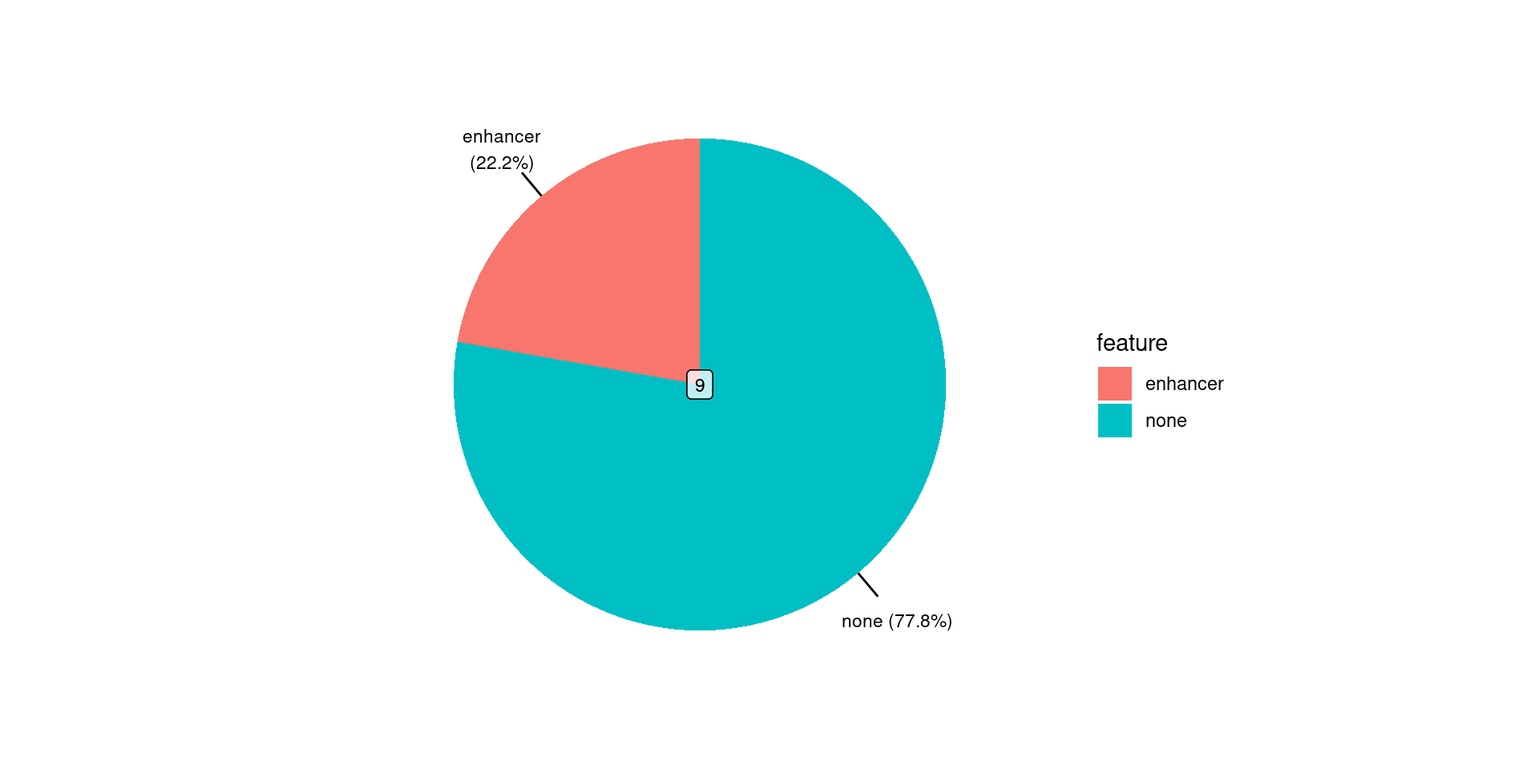
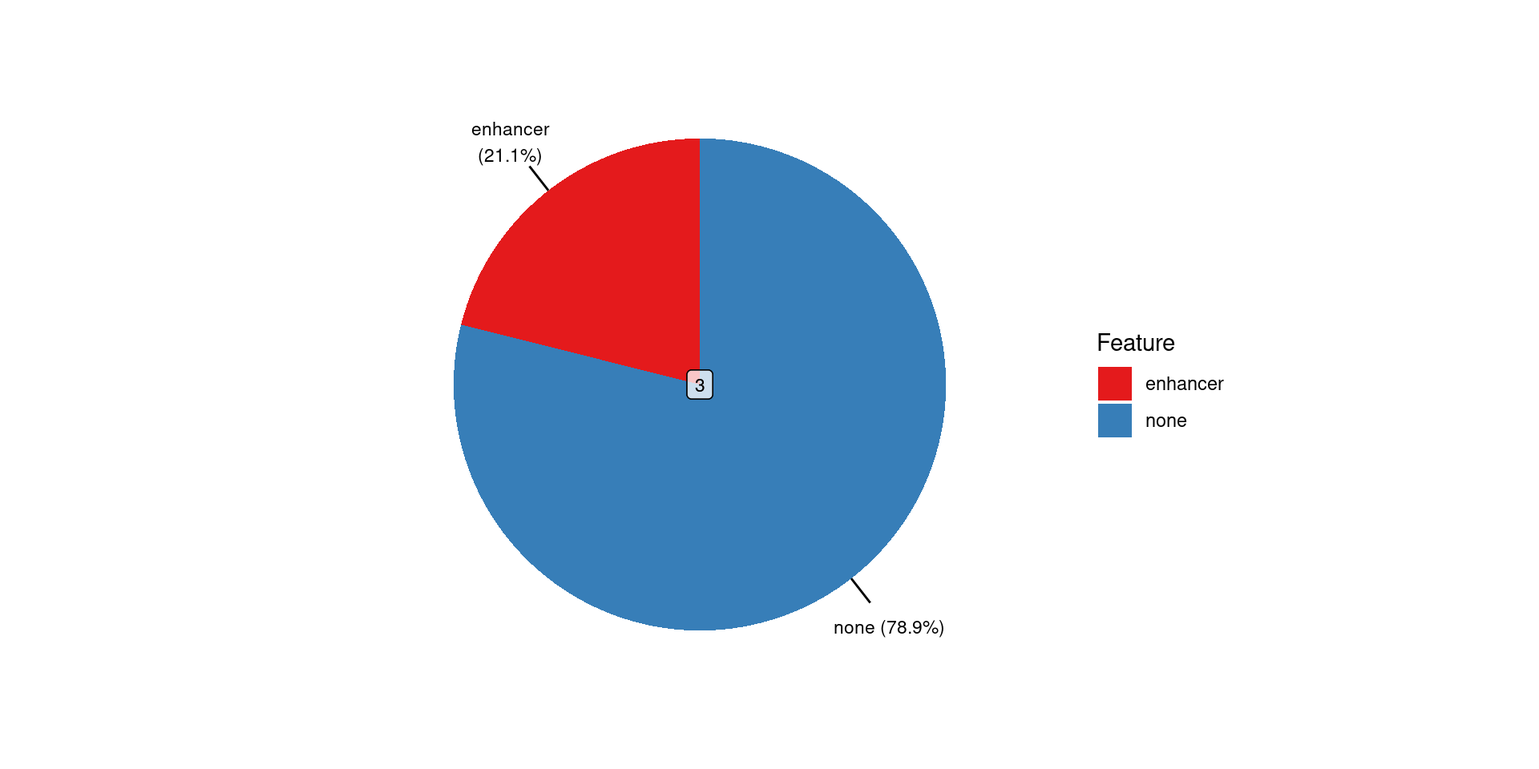
Minor edits

diff --git a/20221201_BiocAsia/20221201_extraChIPs.html b/20221201_BiocAsia/20221201_extraChIPs.html
@@ -565,29 +565,11 @@
 </div>
 </div>
 </div>
-</section>
-<section id="working-with-ranges-tibble-coercion-3" class="slide level2">
-<h2>Working With Ranges: <code>tibble</code> Coercion</h2>
-<p>Coercion back to a <code>GRanges</code> uses <code>colToRanges()</code></p>
-<div class="cell columns column-output-location">
-<div class="column">
-<div class="sourceCode cell-code" id="cb6"><pre class="sourceCode numberSource r number-lines code-with-copy"><code class="sourceCode r"><span id="cb6-1"><a href="#cb6-1"></a>tbl</span></code><button title="Copy to Clipboard" class="code-copy-button"><i class="bi"></i></button></pre></div>
-</div><div class="column">
-<div class="cell-output cell-output-stdout">
-<pre><code># A tibble: 4 × 3
-  range                      gene_name transcript_name
-  &lt;chr&gt;                      &lt;chr&gt;     &lt;chr&gt;          
-1 chr2:204732494-204738688:+ CTLA4     CTLA4-205      
-2 chr2:204732666-204737498:+ CTLA4     CTLA4-201      
-3 chr2:204732666-204737535:+ CTLA4     CTLA4-204      
-4 chr2:204732666-204737535:+ CTLA4     CTLA4-203      </code></pre>
-</div>
-</div>
-</div>
-<p><br></p>
+<div class="fragment" data-fragment-index="1">
+<p>Coerce back to a <code>GRanges</code> uses <code>colToRanges()</code></p>
 <div class="cell">
-<div class="sourceCode cell-code" id="cb8"><pre class="sourceCode numberSource r number-lines code-with-copy"><code class="sourceCode r"><span id="cb8-1"><a href="#cb8-1"></a>sq <span class="ot">&lt;-</span> <span class="fu">seqinfo</span>(gr)</span>
-<span id="cb8-2"><a href="#cb8-2"></a><span class="fu">colToRanges</span>(tbl, <span class="at">var =</span> <span class="st">"range"</span>, <span class="at">seqinfo =</span> sq)</span></code><button title="Copy to Clipboard" class="code-copy-button"><i class="bi"></i></button></pre></div>
+<div class="sourceCode cell-code" id="cb6"><pre class="sourceCode numberSource r number-lines code-with-copy"><code class="sourceCode r"><span id="cb6-1"><a href="#cb6-1"></a>sq <span class="ot">&lt;-</span> <span class="fu">seqinfo</span>(gr)</span>
+<span id="cb6-2"><a href="#cb6-2"></a><span class="fu">colToRanges</span>(tbl, <span class="at">var =</span> <span class="st">"range"</span>, <span class="at">seqinfo =</span> sq)</span></code><button title="Copy to Clipboard" class="code-copy-button"><i class="bi"></i></button></pre></div>
 <div class="cell-output cell-output-stdout">
 <pre><code>GRanges object with 4 ranges and 2 metadata columns:
       seqnames              ranges strand |   gene_name transcript_name
@@ -600,11 +582,12 @@
   seqinfo: 24 sequences from GRCh37 genome</code></pre>
 </div>
 </div>
+</div>
 </section>
 <section id="operations-retaining-mcols-reducemc" class="slide level2">
 <h2>Operations Retaining <code>mcols</code>: <code>reduceMC()</code></h2>
 <div class="cell">
-<div class="sourceCode cell-code" id="cb10"><pre class="sourceCode numberSource r number-lines code-with-copy"><code class="sourceCode r"><span id="cb10-1"><a href="#cb10-1"></a>gr</span></code><button title="Copy to Clipboard" class="code-copy-button"><i class="bi"></i></button></pre></div>
+<div class="sourceCode cell-code" id="cb8"><pre class="sourceCode numberSource r number-lines code-with-copy"><code class="sourceCode r"><span id="cb8-1"><a href="#cb8-1"></a>gr</span></code><button title="Copy to Clipboard" class="code-copy-button"><i class="bi"></i></button></pre></div>
 <div class="cell-output cell-output-stdout">
 <pre><code>GRanges object with 4 ranges and 2 metadata columns:
       seqnames              ranges strand |   gene_name transcript_name
@@ -619,7 +602,7 @@
 </div>
 <p>Common functions like <code>reduce</code> lose <code>mcols</code> information</p>
 <div class="cell">
-<div class="sourceCode cell-code" id="cb12"><pre class="sourceCode numberSource r number-lines code-with-copy"><code class="sourceCode r"><span id="cb12-1"><a href="#cb12-1"></a><span class="fu">reduce</span>(gr)</span></code><button title="Copy to Clipboard" class="code-copy-button"><i class="bi"></i></button></pre></div>
+<div class="sourceCode cell-code" id="cb10"><pre class="sourceCode numberSource r number-lines code-with-copy"><code class="sourceCode r"><span id="cb10-1"><a href="#cb10-1"></a><span class="fu">reduce</span>(gr)</span></code><button title="Copy to Clipboard" class="code-copy-button"><i class="bi"></i></button></pre></div>
 <div class="cell-output cell-output-stdout">
 <pre><code>GRanges object with 1 range and 0 metadata columns:
       seqnames              ranges strand
@@ -633,7 +616,7 @@
 <section id="operations-retaining-mcols-reducemc-1" class="slide level2">
 <h2>Operations Retaining <code>mcols</code>: <code>reduceMC()</code></h2>
 <div class="cell">
-<div class="sourceCode cell-code" id="cb14"><pre class="sourceCode numberSource r number-lines code-with-copy"><code class="sourceCode r"><span id="cb14-1"><a href="#cb14-1"></a>gr</span></code><button title="Copy to Clipboard" class="code-copy-button"><i class="bi"></i></button></pre></div>
+<div class="sourceCode cell-code" id="cb12"><pre class="sourceCode numberSource r number-lines code-with-copy"><code class="sourceCode r"><span id="cb12-1"><a href="#cb12-1"></a>gr</span></code><button title="Copy to Clipboard" class="code-copy-button"><i class="bi"></i></button></pre></div>
 <div class="cell-output cell-output-stdout">
 <pre><code>GRanges object with 4 ranges and 2 metadata columns:
       seqnames              ranges strand |   gene_name transcript_name
@@ -648,7 +631,7 @@
 </div>
 <p><code>reduceMC()</code> collapses the <code>mcols</code> information</p>
 <div class="cell">
-<div class="sourceCode cell-code" id="cb16"><pre class="sourceCode numberSource r number-lines code-with-copy"><code class="sourceCode r"><span id="cb16-1"><a href="#cb16-1"></a><span class="fu">reduceMC</span>(gr)</span></code><button title="Copy to Clipboard" class="code-copy-button"><i class="bi"></i></button></pre></div>
+<div class="sourceCode cell-code" id="cb14"><pre class="sourceCode numberSource r number-lines code-with-copy"><code class="sourceCode r"><span id="cb14-1"><a href="#cb14-1"></a><span class="fu">reduceMC</span>(gr)</span></code><button title="Copy to Clipboard" class="code-copy-button"><i class="bi"></i></button></pre></div>
 <div class="cell-output cell-output-stdout">
 <pre><code>GRanges object with 1 range and 2 metadata columns:
       seqnames              ranges strand |   gene_name
@@ -666,10 +649,10 @@
 <h2>Operations Retaining <code>mcols</code>: <code>reduceMC()</code></h2>
 <p>More realistically we might want to find unique TSS within a gene</p>
 <div class="cell">
-<div class="sourceCode cell-code" id="cb18"><pre class="sourceCode numberSource r number-lines code-with-copy"><code class="sourceCode r"><span id="cb18-1"><a href="#cb18-1"></a><span class="fu">library</span>(magrittr)</span>
-<span id="cb18-2"><a href="#cb18-2"></a>gr <span class="sc">%&gt;%</span> </span>
-<span id="cb18-3"><a href="#cb18-3"></a>  <span class="fu">resize</span>(<span class="at">width =</span> <span class="dv">1</span>, <span class="at">fix =</span> <span class="st">'start'</span>) <span class="sc">%&gt;%</span> </span>
-<span id="cb18-4"><a href="#cb18-4"></a>  <span class="fu">reduceMC</span>()</span></code><button title="Copy to Clipboard" class="code-copy-button"><i class="bi"></i></button></pre></div>
+<div class="sourceCode cell-code" id="cb16"><pre class="sourceCode numberSource r number-lines code-with-copy"><code class="sourceCode r"><span id="cb16-1"><a href="#cb16-1"></a><span class="fu">library</span>(magrittr)</span>
+<span id="cb16-2"><a href="#cb16-2"></a>gr <span class="sc">%&gt;%</span> </span>
+<span id="cb16-3"><a href="#cb16-3"></a>  <span class="fu">resize</span>(<span class="at">width =</span> <span class="dv">1</span>, <span class="at">fix =</span> <span class="st">'start'</span>) <span class="sc">%&gt;%</span> </span>
+<span id="cb16-4"><a href="#cb16-4"></a>  <span class="fu">reduceMC</span>()</span></code><button title="Copy to Clipboard" class="code-copy-button"><i class="bi"></i></button></pre></div>
 <div class="cell-output cell-output-stdout">
 <pre><code>GRanges object with 2 ranges and 2 metadata columns:
       seqnames    ranges strand |   gene_name               transcript_name
@@ -696,7 +679,7 @@
 <section id="tidyverse-inspired-functions-chopmc" class="slide level2">
 <h2>Tidyverse-inspired Functions: <code>chopMC()</code></h2>
 <div class="cell">
-<div class="sourceCode cell-code" id="cb20"><pre class="sourceCode numberSource r number-lines code-with-copy"><code class="sourceCode r"><span id="cb20-1"><a href="#cb20-1"></a>gr</span></code><button title="Copy to Clipboard" class="code-copy-button"><i class="bi"></i></button></pre></div>
+<div class="sourceCode cell-code" id="cb18"><pre class="sourceCode numberSource r number-lines code-with-copy"><code class="sourceCode r"><span id="cb18-1"><a href="#cb18-1"></a>gr</span></code><button title="Copy to Clipboard" class="code-copy-button"><i class="bi"></i></button></pre></div>
 <div class="cell-output cell-output-stdout">
 <pre><code>GRanges object with 4 ranges and 2 metadata columns:
       seqnames              ranges strand |   gene_name transcript_name
@@ -714,7 +697,7 @@
 <li><code>chopMC()</code> acts like <code>chop()</code> using the range as the backbone</li>
 </ul>
 <div class="cell">
-<div class="sourceCode cell-code" id="cb22"><pre class="sourceCode numberSource r number-lines code-with-copy"><code class="sourceCode r"><span id="cb22-1"><a href="#cb22-1"></a><span class="fu">chopMC</span>(gr)</span></code><button title="Copy to Clipboard" class="code-copy-button"><i class="bi"></i></button></pre></div>
+<div class="sourceCode cell-code" id="cb20"><pre class="sourceCode numberSource r number-lines code-with-copy"><code class="sourceCode r"><span id="cb20-1"><a href="#cb20-1"></a><span class="fu">chopMC</span>(gr)</span></code><button title="Copy to Clipboard" class="code-copy-button"><i class="bi"></i></button></pre></div>
 <div class="cell-output cell-output-stdout">
 <pre><code>GRanges object with 3 ranges and 2 metadata columns:
       seqnames              ranges strand |   gene_name     transcript_name
@@ -731,7 +714,7 @@
 <section id="tidyverse-inspired-functions-distinctmc" class="slide level2">
 <h2>Tidyverse-inspired Functions: <code>distinctMC()</code></h2>
 <div class="cell">
-<div class="sourceCode cell-code" id="cb24"><pre class="sourceCode numberSource r number-lines code-with-copy"><code class="sourceCode r"><span id="cb24-1"><a href="#cb24-1"></a>gr</span></code><button title="Copy to Clipboard" class="code-copy-button"><i class="bi"></i></button></pre></div>
+<div class="sourceCode cell-code" id="cb22"><pre class="sourceCode numberSource r number-lines code-with-copy"><code class="sourceCode r"><span id="cb22-1"><a href="#cb22-1"></a>gr</span></code><button title="Copy to Clipboard" class="code-copy-button"><i class="bi"></i></button></pre></div>
 <div class="cell-output cell-output-stdout">
 <pre><code>GRanges object with 4 ranges and 2 metadata columns:
       seqnames              ranges strand |   gene_name transcript_name
@@ -748,7 +731,7 @@
 <li><code>distinctMC()</code> behaves like <code>distinct()</code> using the ranges + any requested columns</li>
 </ul>
 <div class="cell">
-<div class="sourceCode cell-code" id="cb26"><pre class="sourceCode numberSource r number-lines code-with-copy"><code class="sourceCode r"><span id="cb26-1"><a href="#cb26-1"></a><span class="fu">distinctMC</span>(gr)</span></code><button title="Copy to Clipboard" class="code-copy-button"><i class="bi"></i></button></pre></div>
+<div class="sourceCode cell-code" id="cb24"><pre class="sourceCode numberSource r number-lines code-with-copy"><code class="sourceCode r"><span id="cb24-1"><a href="#cb24-1"></a><span class="fu">distinctMC</span>(gr)</span></code><button title="Copy to Clipboard" class="code-copy-button"><i class="bi"></i></button></pre></div>
 <div class="cell-output cell-output-stdout">
 <pre><code>GRanges object with 3 ranges and 0 metadata columns:
       seqnames              ranges strand
@@ -764,7 +747,7 @@
 <section id="tidyverse-inspired-functions-distinctmc-1" class="slide level2">
 <h2>Tidyverse-inspired Functions: <code>distinctMC()</code></h2>
 <div class="cell">
-<div class="sourceCode cell-code" id="cb28"><pre class="sourceCode numberSource r number-lines code-with-copy"><code class="sourceCode r"><span id="cb28-1"><a href="#cb28-1"></a>gr</span></code><button title="Copy to Clipboard" class="code-copy-button"><i class="bi"></i></button></pre></div>
+<div class="sourceCode cell-code" id="cb26"><pre class="sourceCode numberSource r number-lines code-with-copy"><code class="sourceCode r"><span id="cb26-1"><a href="#cb26-1"></a>gr</span></code><button title="Copy to Clipboard" class="code-copy-button"><i class="bi"></i></button></pre></div>
 <div class="cell-output cell-output-stdout">
 <pre><code>GRanges object with 4 ranges and 2 metadata columns:
       seqnames              ranges strand |   gene_name transcript_name
@@ -781,7 +764,7 @@
 <li><code>distinctMC()</code> behaves like <code>distinct()</code> using the ranges + any requested columns</li>
 </ul>
 <div class="cell">
-<div class="sourceCode cell-code" id="cb30"><pre class="sourceCode numberSource r number-lines code-with-copy"><code class="sourceCode r"><span id="cb30-1"><a href="#cb30-1"></a><span class="fu">distinctMC</span>(gr, <span class="at">.keep_all =</span> <span class="cn">TRUE</span>)</span></code><button title="Copy to Clipboard" class="code-copy-button"><i class="bi"></i></button></pre></div>
+<div class="sourceCode cell-code" id="cb28"><pre class="sourceCode numberSource r number-lines code-with-copy"><code class="sourceCode r"><span id="cb28-1"><a href="#cb28-1"></a><span class="fu">distinctMC</span>(gr, <span class="at">.keep_all =</span> <span class="cn">TRUE</span>)</span></code><button title="Copy to Clipboard" class="code-copy-button"><i class="bi"></i></button></pre></div>
 <div class="cell-output cell-output-stdout">
 <pre><code>GRanges object with 3 ranges and 2 metadata columns:
       seqnames              ranges strand |   gene_name transcript_name
@@ -798,9 +781,9 @@
 <h2>Additional Helpers</h2>
 <p><code>stitchRanges()</code> joins ranges setting barriers</p>
 <div class="cell">
-<div class="sourceCode cell-code" id="cb32"><pre class="sourceCode numberSource r number-lines code-with-copy"><code class="sourceCode r"><span id="cb32-1"><a href="#cb32-1"></a>x <span class="ot">&lt;-</span> <span class="fu">GRanges</span>(<span class="fu">c</span>(<span class="st">"chr1:1-10"</span>, <span class="st">"chr1:101-110"</span>, <span class="st">"chr1:201-210"</span>))</span>
-<span id="cb32-2"><a href="#cb32-2"></a>y <span class="ot">&lt;-</span> <span class="fu">GRanges</span>(<span class="st">"chr1:150-200:+"</span>)</span>
-<span id="cb32-3"><a href="#cb32-3"></a>x</span></code><button title="Copy to Clipboard" class="code-copy-button"><i class="bi"></i></button></pre></div>
+<div class="sourceCode cell-code" id="cb30"><pre class="sourceCode numberSource r number-lines code-with-copy"><code class="sourceCode r"><span id="cb30-1"><a href="#cb30-1"></a>x <span class="ot">&lt;-</span> <span class="fu">GRanges</span>(<span class="fu">c</span>(<span class="st">"chr1:1-10"</span>, <span class="st">"chr1:101-110"</span>, <span class="st">"chr1:201-210"</span>))</span>
+<span id="cb30-2"><a href="#cb30-2"></a>y <span class="ot">&lt;-</span> <span class="fu">GRanges</span>(<span class="st">"chr1:150-200:+"</span>)</span>
+<span id="cb30-3"><a href="#cb30-3"></a>x</span></code><button title="Copy to Clipboard" class="code-copy-button"><i class="bi"></i></button></pre></div>
 <div class="cell-output cell-output-stdout">
 <pre><code>GRanges object with 3 ranges and 0 metadata columns:
       seqnames    ranges strand
@@ -814,7 +797,7 @@
 </div>
 <p><br></p>
 <div class="cell">
-<div class="sourceCode cell-code" id="cb34"><pre class="sourceCode numberSource r number-lines code-with-copy"><code class="sourceCode r"><span id="cb34-1"><a href="#cb34-1"></a><span class="fu">stitchRanges</span>(x, <span class="at">exclude =</span> y, <span class="at">maxgap =</span> <span class="dv">100</span>)</span></code><button title="Copy to Clipboard" class="code-copy-button"><i class="bi"></i></button></pre></div>
+<div class="sourceCode cell-code" id="cb32"><pre class="sourceCode numberSource r number-lines code-with-copy"><code class="sourceCode r"><span id="cb32-1"><a href="#cb32-1"></a><span class="fu">stitchRanges</span>(x, <span class="at">exclude =</span> y, <span class="at">maxgap =</span> <span class="dv">100</span>)</span></code><button title="Copy to Clipboard" class="code-copy-button"><i class="bi"></i></button></pre></div>
 <div class="cell-output cell-output-stdout">
 <pre><code>GRanges object with 2 ranges and 0 metadata columns:
       seqnames    ranges strand
@@ -835,10 +818,10 @@
 <h2><code>importPeaks()</code></h2>
 <p>Most often, we’ll load in replicates with identical structure <span class="math inline">\(\implies\)</span> <code>GRangesList</code></p>
 <div class="cell">
-<div class="sourceCode cell-code" id="cb36"><pre class="sourceCode numberSource r number-lines code-with-copy"><code class="sourceCode r"><span id="cb36-1"><a href="#cb36-1"></a><span class="fu">library</span>(glue)</span>
-<span id="cb36-2"><a href="#cb36-2"></a>fl <span class="ot">&lt;-</span> <span class="fu">glue</span>(<span class="st">"GATA3_E2_rep{1:2}.narrowPeak"</span>)</span>
-<span id="cb36-3"><a href="#cb36-3"></a>peaks <span class="ot">&lt;-</span> <span class="fu">importPeaks</span>(fl, <span class="at">seqinfo =</span> sq)</span>
-<span id="cb36-4"><a href="#cb36-4"></a>peaks</span></code><button title="Copy to Clipboard" class="code-copy-button"><i class="bi"></i></button></pre></div>
+<div class="sourceCode cell-code" id="cb34"><pre class="sourceCode numberSource r number-lines code-with-copy"><code class="sourceCode r"><span id="cb34-1"><a href="#cb34-1"></a><span class="fu">library</span>(glue)</span>
+<span id="cb34-2"><a href="#cb34-2"></a>fl <span class="ot">&lt;-</span> <span class="fu">glue</span>(<span class="st">"GATA3_E2_rep{1:2}.narrowPeak"</span>)</span>
+<span id="cb34-3"><a href="#cb34-3"></a>peaks <span class="ot">&lt;-</span> <span class="fu">importPeaks</span>(fl, <span class="at">seqinfo =</span> sq)</span>
+<span id="cb34-4"><a href="#cb34-4"></a>peaks</span></code><button title="Copy to Clipboard" class="code-copy-button"><i class="bi"></i></button></pre></div>
 <div class="cell-output cell-output-stdout">
 <pre><code>GRangesList object of length 2:
 $GATA3_E2_rep1.narrowPeak
@@ -905,18 +888,18 @@ GRanges object with 10 ranges and 5 metadata columns:
 <h2><code>plotOverlaps()</code></h2>
 <div class="cell columns column-output-location">
 <div class="column">
-<div class="sourceCode cell-code" id="cb38"><pre class="sourceCode numberSource r number-lines code-with-copy"><code class="sourceCode r"><span id="cb38-1"><a href="#cb38-1"></a><span class="fu">library</span>(stringr)</span>
-<span id="cb38-2"><a href="#cb38-2"></a><span class="fu">names</span>(peaks) <span class="ot">&lt;-</span> <span class="fu">str_remove_all</span>(</span>
-<span id="cb38-3"><a href="#cb38-3"></a>  <span class="fu">names</span>(peaks), <span class="st">".narrowPeak"</span></span>
-<span id="cb38-4"><a href="#cb38-4"></a>)</span>
-<span id="cb38-5"><a href="#cb38-5"></a><span class="fu">plotOverlaps</span>(</span>
-<span id="cb38-6"><a href="#cb38-6"></a>  peaks, </span>
-<span id="cb38-7"><a href="#cb38-7"></a>  <span class="at">set_col =</span> <span class="fu">c</span>(<span class="st">"blue"</span>, <span class="st">"yellow"</span>),</span>
-<span id="cb38-8"><a href="#cb38-8"></a>  <span class="at">alpha =</span> <span class="fl">0.2</span></span>
-<span id="cb38-9"><a href="#cb38-9"></a>)</span></code><button title="Copy to Clipboard" class="code-copy-button"><i class="bi"></i></button></pre></div>
+<div class="sourceCode cell-code" id="cb36"><pre class="sourceCode numberSource r number-lines code-with-copy"><code class="sourceCode r"><span id="cb36-1"><a href="#cb36-1"></a><span class="fu">library</span>(stringr)</span>
+<span id="cb36-2"><a href="#cb36-2"></a><span class="fu">names</span>(peaks) <span class="ot">&lt;-</span> <span class="fu">str_remove_all</span>(</span>
+<span id="cb36-3"><a href="#cb36-3"></a>  <span class="fu">names</span>(peaks), <span class="st">".narrowPeak"</span></span>
+<span id="cb36-4"><a href="#cb36-4"></a>)</span>
+<span id="cb36-5"><a href="#cb36-5"></a><span class="fu">plotOverlaps</span>(</span>
+<span id="cb36-6"><a href="#cb36-6"></a>  peaks, </span>
+<span id="cb36-7"><a href="#cb36-7"></a>  <span class="at">set_col =</span> <span class="fu">c</span>(<span class="st">"blue"</span>, <span class="st">"yellow"</span>),</span>
+<span id="cb36-8"><a href="#cb36-8"></a>  <span class="at">alpha =</span> <span class="fl">0.2</span></span>
+<span id="cb36-9"><a href="#cb36-9"></a>)</span></code><button title="Copy to Clipboard" class="code-copy-button"><i class="bi"></i></button></pre></div>
 </div><div class="column">
 <div class="cell-output-display">
-<p><img data-src="20221201_extraChIPs_files/figure-revealjs/unnamed-chunk-21-1.png" width="576"></p>
+<p><img data-src="20221201_extraChIPs_files/figure-revealjs/unnamed-chunk-20-1.png" width="576"></p>
 </div>
 </div>
 </div>
@@ -924,14 +907,14 @@ GRanges object with 10 ranges and 5 metadata columns:
 <section id="plotoverlaps-1" class="slide level2">
 <h2><code>plotOverlaps()</code></h2>
 <div class="cell">
-<div class="sourceCode cell-code" id="cb39"><pre class="sourceCode numberSource r number-lines code-with-copy"><code class="sourceCode r"><span id="cb39-1"><a href="#cb39-1"></a><span class="fu">plotOverlaps</span>(peaks, <span class="at">type =</span> <span class="st">"upset"</span>, <span class="at">var =</span> <span class="st">"score"</span>, <span class="at">set_col =</span> <span class="fu">c</span>(<span class="st">"blue"</span>, <span class="st">"yellow"</span>))</span></code><button title="Copy to Clipboard" class="code-copy-button"><i class="bi"></i></button></pre></div>
+<div class="sourceCode cell-code" id="cb37"><pre class="sourceCode numberSource r number-lines code-with-copy"><code class="sourceCode r"><span id="cb37-1"><a href="#cb37-1"></a><span class="fu">plotOverlaps</span>(peaks, <span class="at">type =</span> <span class="st">"upset"</span>, <span class="at">var =</span> <span class="st">"score"</span>, <span class="at">set_col =</span> <span class="fu">c</span>(<span class="st">"blue"</span>, <span class="st">"yellow"</span>))</span></code><button title="Copy to Clipboard" class="code-copy-button"><i class="bi"></i></button></pre></div>
 
 </div>
-<img data-src="20221201_extraChIPs_files/figure-revealjs/unnamed-chunk-22-1.png" width="960" class="r-stretch"></section>
+<img data-src="20221201_extraChIPs_files/figure-revealjs/unnamed-chunk-21-1.png" width="960" class="r-stretch"></section>
 <section id="makeconsensus" class="slide level2 smaller">
 <h2><code>makeConsensus()</code></h2>
 <div class="cell">
-<div class="sourceCode cell-code" id="cb40"><pre class="sourceCode numberSource r number-lines code-with-copy"><code class="sourceCode r"><span id="cb40-1"><a href="#cb40-1"></a><span class="fu">makeConsensus</span>(peaks)</span></code><button title="Copy to Clipboard" class="code-copy-button"><i class="bi"></i></button></pre></div>
+<div class="sourceCode cell-code" id="cb38"><pre class="sourceCode numberSource r number-lines code-with-copy"><code class="sourceCode r"><span id="cb38-1"><a href="#cb38-1"></a><span class="fu">makeConsensus</span>(peaks)</span></code><button title="Copy to Clipboard" class="code-copy-button"><i class="bi"></i></button></pre></div>
 <div class="cell-output cell-output-stdout">
 <pre><code>GRanges object with 11 ranges and 3 metadata columns:
        seqnames          ranges strand | GATA3_E2_rep1 GATA3_E2_rep2         n
@@ -956,7 +939,7 @@ GRanges object with 10 ranges and 5 metadata columns:
 <h2><code>makeConsensus()</code></h2>
 <p>Retain one or more columns from each replicate</p>
 <div class="cell">
-<div class="sourceCode cell-code" id="cb42"><pre class="sourceCode numberSource r number-lines code-with-copy"><code class="sourceCode r"><span id="cb42-1"><a href="#cb42-1"></a><span class="fu">makeConsensus</span>(peaks, <span class="at">var =</span> <span class="st">"score"</span>)</span></code><button title="Copy to Clipboard" class="code-copy-button"><i class="bi"></i></button></pre></div>
+<div class="sourceCode cell-code" id="cb40"><pre class="sourceCode numberSource r number-lines code-with-copy"><code class="sourceCode r"><span id="cb40-1"><a href="#cb40-1"></a><span class="fu">makeConsensus</span>(peaks, <span class="at">var =</span> <span class="st">"score"</span>)</span></code><button title="Copy to Clipboard" class="code-copy-button"><i class="bi"></i></button></pre></div>
 <div class="cell-output cell-output-stdout">
 <pre><code>GRanges object with 11 ranges and 4 metadata columns:
        seqnames          ranges strand |         score GATA3_E2_rep1
@@ -994,10 +977,10 @@ GRanges object with 10 ranges and 5 metadata columns:
 <h2><code>makeConsensus()</code></h2>
 <p>Example: Keep peak centres from each replicate</p>
 <div class="cell">
-<div class="sourceCode cell-code" id="cb44"><pre class="sourceCode numberSource r number-lines code-with-copy"><code class="sourceCode r"><span id="cb44-1"><a href="#cb44-1"></a><span class="fu">library</span>(plyranges)</span>
-<span id="cb44-2"><a href="#cb44-2"></a>peaks <span class="sc">%&gt;%</span> </span>
-<span id="cb44-3"><a href="#cb44-3"></a>  <span class="fu">endoapply</span>(mutate, <span class="at">centre =</span> start <span class="sc">+</span> peak) <span class="sc">%&gt;%</span> </span>
-<span id="cb44-4"><a href="#cb44-4"></a>  <span class="fu">makeConsensus</span>(<span class="at">var =</span> <span class="st">"centre"</span>, <span class="at">p =</span> <span class="dv">1</span>, <span class="at">simplify =</span> <span class="cn">FALSE</span>) </span></code><button title="Copy to Clipboard" class="code-copy-button"><i class="bi"></i></button></pre></div>
+<div class="sourceCode cell-code" id="cb42"><pre class="sourceCode numberSource r number-lines code-with-copy"><code class="sourceCode r"><span id="cb42-1"><a href="#cb42-1"></a><span class="fu">library</span>(plyranges)</span>
+<span id="cb42-2"><a href="#cb42-2"></a>peaks <span class="sc">%&gt;%</span> </span>
+<span id="cb42-3"><a href="#cb42-3"></a>  <span class="fu">endoapply</span>(mutate, <span class="at">centre =</span> start <span class="sc">+</span> peak) <span class="sc">%&gt;%</span> </span>
+<span id="cb42-4"><a href="#cb42-4"></a>  <span class="fu">makeConsensus</span>(<span class="at">var =</span> <span class="st">"centre"</span>, <span class="at">p =</span> <span class="dv">1</span>, <span class="at">simplify =</span> <span class="cn">FALSE</span>) </span></code><button title="Copy to Clipboard" class="code-copy-button"><i class="bi"></i></button></pre></div>
 <div class="cell-output cell-output-stdout">
 <pre><code>GRanges object with 9 ranges and 4 metadata columns:
       seqnames          ranges strand |          centre GATA3_E2_rep1
@@ -1031,12 +1014,12 @@ GRanges object with 10 ranges and 5 metadata columns:
 <h2><code>makeConsensus()</code></h2>
 <p>Example: Keep peak centres from each replicate</p>
 <div class="cell">
-<div class="sourceCode cell-code" id="cb46"><pre class="sourceCode numberSource r number-lines code-with-copy"><code class="sourceCode r"><span id="cb46-1"><a href="#cb46-1"></a>consensus_peaks <span class="ot">&lt;-</span> peaks <span class="sc">%&gt;%</span> </span>
-<span id="cb46-2"><a href="#cb46-2"></a>  <span class="fu">endoapply</span>(mutate, <span class="at">centre =</span> start <span class="sc">+</span> peak) <span class="sc">%&gt;%</span> </span>
-<span id="cb46-3"><a href="#cb46-3"></a>  <span class="fu">makeConsensus</span>(<span class="at">var =</span> <span class="st">"centre"</span>, <span class="at">p =</span> <span class="dv">1</span>, <span class="at">simplify =</span> <span class="cn">FALSE</span>) <span class="sc">%&gt;%</span> </span>
-<span id="cb46-4"><a href="#cb46-4"></a>  <span class="fu">mutate</span>(<span class="at">centre =</span> <span class="fu">vapply</span>(centre, median, <span class="fu">numeric</span>(<span class="dv">1</span>))) <span class="sc">%&gt;%</span> </span>
-<span id="cb46-5"><a href="#cb46-5"></a>  <span class="fu">select</span>(centre, n)</span>
-<span id="cb46-6"><a href="#cb46-6"></a>consensus_peaks</span></code><button title="Copy to Clipboard" class="code-copy-button"><i class="bi"></i></button></pre></div>
+<div class="sourceCode cell-code" id="cb44"><pre class="sourceCode numberSource r number-lines code-with-copy"><code class="sourceCode r"><span id="cb44-1"><a href="#cb44-1"></a>consensus_peaks <span class="ot">&lt;-</span> peaks <span class="sc">%&gt;%</span> </span>
+<span id="cb44-2"><a href="#cb44-2"></a>  <span class="fu">endoapply</span>(mutate, <span class="at">centre =</span> start <span class="sc">+</span> peak) <span class="sc">%&gt;%</span> </span>
+<span id="cb44-3"><a href="#cb44-3"></a>  <span class="fu">makeConsensus</span>(<span class="at">var =</span> <span class="st">"centre"</span>, <span class="at">p =</span> <span class="dv">1</span>, <span class="at">simplify =</span> <span class="cn">FALSE</span>) <span class="sc">%&gt;%</span> </span>
+<span id="cb44-4"><a href="#cb44-4"></a>  <span class="fu">mutate</span>(<span class="at">centre =</span> <span class="fu">vapply</span>(centre, median, <span class="fu">numeric</span>(<span class="dv">1</span>))) <span class="sc">%&gt;%</span> </span>
+<span id="cb44-5"><a href="#cb44-5"></a>  <span class="fu">select</span>(centre, n)</span>
+<span id="cb44-6"><a href="#cb44-6"></a>consensus_peaks</span></code><button title="Copy to Clipboard" class="code-copy-button"><i class="bi"></i></button></pre></div>
 <div class="cell-output cell-output-stdout">
 <pre><code>GRanges object with 9 ranges and 2 metadata columns:
       seqnames          ranges strand |    centre         n
@@ -1058,9 +1041,9 @@ GRanges object with 10 ranges and 5 metadata columns:
 <section id="map-to-features" class="slide level2 smaller">
 <h2>Map To Features</h2>
 <div class="cell">
-<div class="sourceCode cell-code" id="cb48"><pre class="sourceCode numberSource r number-lines code-with-copy"><code class="sourceCode r"><span id="cb48-1"><a href="#cb48-1"></a><span class="fu">library</span>(rtracklayer)</span>
-<span id="cb48-2"><a href="#cb48-2"></a>features <span class="ot">&lt;-</span> <span class="fu">import.gff</span>(<span class="st">"ZR-75_h3k27ac_features.gtf"</span>) <span class="sc">%&gt;%</span> <span class="fu">select</span>(feature)</span>
-<span id="cb48-3"><a href="#cb48-3"></a>features[<span class="dv">1</span><span class="sc">:</span><span class="dv">5</span>]</span></code><button title="Copy to Clipboard" class="code-copy-button"><i class="bi"></i></button></pre></div>
+<div class="sourceCode cell-code" id="cb46"><pre class="sourceCode numberSource r number-lines code-with-copy"><code class="sourceCode r"><span id="cb46-1"><a href="#cb46-1"></a><span class="fu">library</span>(rtracklayer)</span>
+<span id="cb46-2"><a href="#cb46-2"></a>features <span class="ot">&lt;-</span> <span class="fu">import.gff</span>(<span class="st">"ZR-75_h3k27ac_features.gtf"</span>) <span class="sc">%&gt;%</span> <span class="fu">select</span>(feature)</span>
+<span id="cb46-3"><a href="#cb46-3"></a>features[<span class="dv">1</span><span class="sc">:</span><span class="dv">5</span>]</span></code><button title="Copy to Clipboard" class="code-copy-button"><i class="bi"></i></button></pre></div>
 <div class="cell-output cell-output-stdout">
 <pre><code>GRanges object with 5 ranges and 1 metadata column:
       seqnames        ranges strand |     feature
@@ -1077,8 +1060,8 @@ GRanges object with 10 ranges and 5 metadata columns:
 <div class="fragment" data-fragment-index="1">
 <p><code>bestOverlap()</code> makes this simple</p>
 <div class="cell">
-<div class="sourceCode cell-code" id="cb50"><pre class="sourceCode numberSource r number-lines code-with-copy"><code class="sourceCode r"><span id="cb50-1"><a href="#cb50-1"></a>consensus_peaks<span class="sc">$</span>feature <span class="ot">&lt;-</span> <span class="fu">bestOverlap</span>(consensus_peaks, features, <span class="at">var =</span> <span class="st">"feature"</span>, <span class="at">missing =</span> <span class="st">"none"</span>)</span>
-<span id="cb50-2"><a href="#cb50-2"></a>consensus_peaks </span></code><button title="Copy to Clipboard" class="code-copy-button"><i class="bi"></i></button></pre></div>
+<div class="sourceCode cell-code" id="cb48"><pre class="sourceCode numberSource r number-lines code-with-copy"><code class="sourceCode r"><span id="cb48-1"><a href="#cb48-1"></a>consensus_peaks<span class="sc">$</span>feature <span class="ot">&lt;-</span> <span class="fu">bestOverlap</span>(consensus_peaks, features, <span class="at">var =</span> <span class="st">"feature"</span>, <span class="at">missing =</span> <span class="st">"none"</span>)</span>
+<span id="cb48-2"><a href="#cb48-2"></a>consensus_peaks </span></code><button title="Copy to Clipboard" class="code-copy-button"><i class="bi"></i></button></pre></div>
 <div class="cell-output cell-output-stdout">
 <pre><code>GRanges object with 9 ranges and 3 metadata columns:
       seqnames          ranges strand |    centre         n     feature
@@ -1101,19 +1084,19 @@ GRanges object with 10 ranges and 5 metadata columns:
 <section id="summarise-binding-patterns" class="slide level2">
 <h2>Summarise Binding Patterns</h2>
 <div class="cell">
-<div class="sourceCode cell-code" id="cb52"><pre class="sourceCode numberSource r number-lines code-with-copy"><code class="sourceCode r"><span id="cb52-1"><a href="#cb52-1"></a><span class="fu">plotPie</span>(consensus_peaks, <span class="at">fill =</span> <span class="st">"feature"</span>)</span></code><button title="Copy to Clipboard" class="code-copy-button"><i class="bi"></i></button></pre></div>
+<div class="sourceCode cell-code" id="cb50"><pre class="sourceCode numberSource r number-lines code-with-copy"><code class="sourceCode r"><span id="cb50-1"><a href="#cb50-1"></a><span class="fu">plotPie</span>(consensus_peaks, <span class="at">fill =</span> <span class="st">"feature"</span>)</span></code><button title="Copy to Clipboard" class="code-copy-button"><i class="bi"></i></button></pre></div>
 
 </div>
-<img data-src="20221201_extraChIPs_files/figure-revealjs/unnamed-chunk-29-1.png" width="960" class="r-stretch"></section>
+<img data-src="20221201_extraChIPs_files/figure-revealjs/unnamed-chunk-28-1.png" width="960" class="r-stretch"></section>
 <section id="summarise-binding-patterns-1" class="slide level2">
 <h2>Summarise Binding Patterns</h2>
 <div class="cell">
-<div class="sourceCode cell-code" id="cb53"><pre class="sourceCode numberSource r number-lines code-with-copy"><code class="sourceCode r"><span id="cb53-1"><a href="#cb53-1"></a><span class="fu">plotPie</span>(consensus_peaks, <span class="at">fill =</span> <span class="st">"feature"</span>, <span class="at">scale_by =</span> <span class="st">"width"</span>) <span class="sc">+</span></span>
-<span id="cb53-2"><a href="#cb53-2"></a>  <span class="fu">scale_fill_brewer</span>(<span class="at">palette =</span> <span class="st">"Set1"</span>) <span class="sc">+</span></span>
-<span id="cb53-3"><a href="#cb53-3"></a>  <span class="fu">labs</span>(<span class="at">fill =</span> <span class="st">"Feature"</span>)</span></code><button title="Copy to Clipboard" class="code-copy-button"><i class="bi"></i></button></pre></div>
+<div class="sourceCode cell-code" id="cb51"><pre class="sourceCode numberSource r number-lines code-with-copy"><code class="sourceCode r"><span id="cb51-1"><a href="#cb51-1"></a><span class="fu">plotPie</span>(consensus_peaks, <span class="at">fill =</span> <span class="st">"feature"</span>, <span class="at">scale_by =</span> <span class="st">"width"</span>) <span class="sc">+</span></span>
+<span id="cb51-2"><a href="#cb51-2"></a>  <span class="fu">scale_fill_brewer</span>(<span class="at">palette =</span> <span class="st">"Set1"</span>) <span class="sc">+</span></span>
+<span id="cb51-3"><a href="#cb51-3"></a>  <span class="fu">labs</span>(<span class="at">fill =</span> <span class="st">"Feature"</span>)</span></code><button title="Copy to Clipboard" class="code-copy-button"><i class="bi"></i></button></pre></div>
 
 </div>
-<img data-src="20221201_extraChIPs_files/figure-revealjs/unnamed-chunk-30-1.png" width="960" class="r-stretch"></section></section>
+<img data-src="20221201_extraChIPs_files/figure-revealjs/unnamed-chunk-29-1.png" width="960" class="r-stretch"></section></section>
 <section>
 <section id="differential-binding" class="title-slide slide level1 center">
 <h1>Differential Binding</h1>
@@ -1164,7 +1147,7 @@ GRanges object with 10 ranges and 5 metadata columns:
 
 </div>
 <div class="cell">
-<div class="sourceCode cell-code" id="cb54"><pre class="sourceCode numberSource r number-lines code-with-copy"><code class="sourceCode r"><span id="cb54-1"><a href="#cb54-1"></a>win</span></code><button title="Copy to Clipboard" class="code-copy-button"><i class="bi"></i></button></pre></div>
+<div class="sourceCode cell-code" id="cb52"><pre class="sourceCode numberSource r number-lines code-with-copy"><code class="sourceCode r"><span id="cb52-1"><a href="#cb52-1"></a>win</span></code><button title="Copy to Clipboard" class="code-copy-button"><i class="bi"></i></button></pre></div>
 <div class="cell-output cell-output-stdout">
 <pre><code>GRanges object with 3 ranges and 3 metadata columns:
       seqnames    ranges strand |   AveExpr     logFC    PValue
@@ -1179,7 +1162,7 @@ GRanges object with 10 ranges and 5 metadata columns:
 <p><br></p>
 <div class="fragment" data-fragment-index="1">
 <div class="cell">
-<div class="sourceCode cell-code" id="cb56"><pre class="sourceCode numberSource r number-lines code-with-copy"><code class="sourceCode r"><span id="cb56-1"><a href="#cb56-1"></a><span class="fu">mergeByCol</span>(win, <span class="at">col =</span> <span class="st">"AveExpr"</span>, <span class="at">pval =</span> <span class="st">"PValue"</span>)</span></code><button title="Copy to Clipboard" class="code-copy-button"><i class="bi"></i></button></pre></div>
+<div class="sourceCode cell-code" id="cb54"><pre class="sourceCode numberSource r number-lines code-with-copy"><code class="sourceCode r"><span id="cb54-1"><a href="#cb54-1"></a><span class="fu">mergeByCol</span>(win, <span class="at">col =</span> <span class="st">"AveExpr"</span>, <span class="at">pval =</span> <span class="st">"PValue"</span>)</span></code><button title="Copy to Clipboard" class="code-copy-button"><i class="bi"></i></button></pre></div>
 <div class="cell-output cell-output-stdout">
 <pre><code>GRanges object with 1 range and 8 metadata columns:
       seqnames    ranges strand | n_windows      n_up    n_down keyval_range
